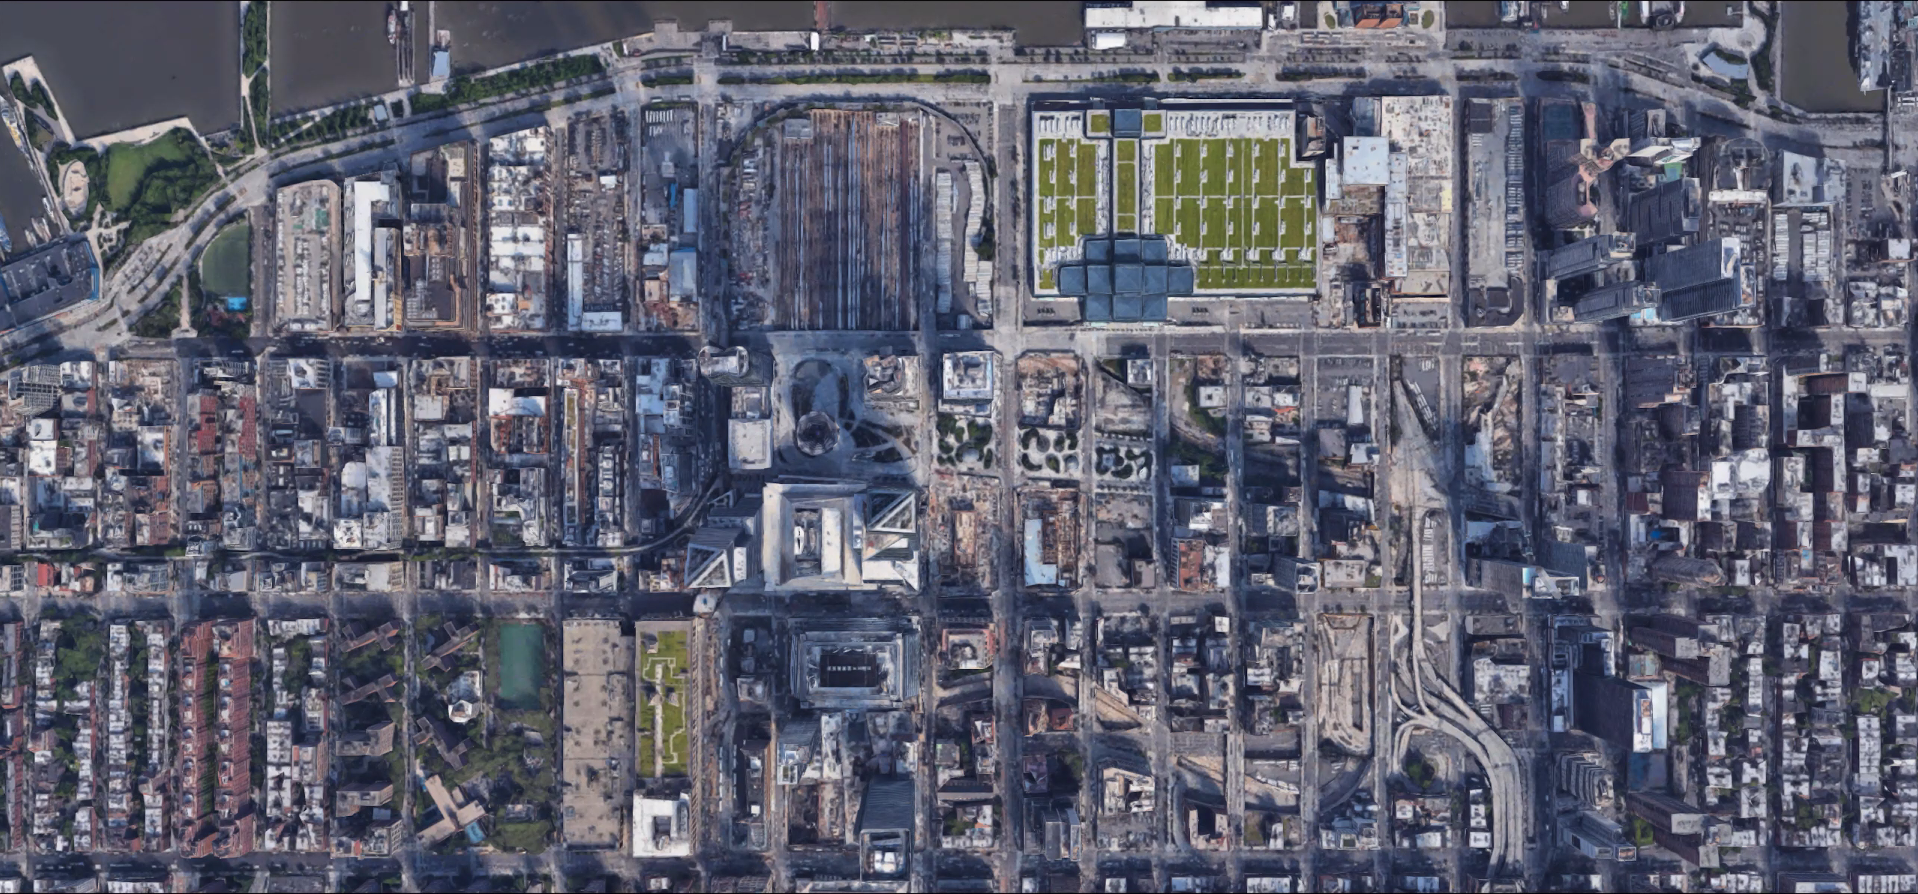
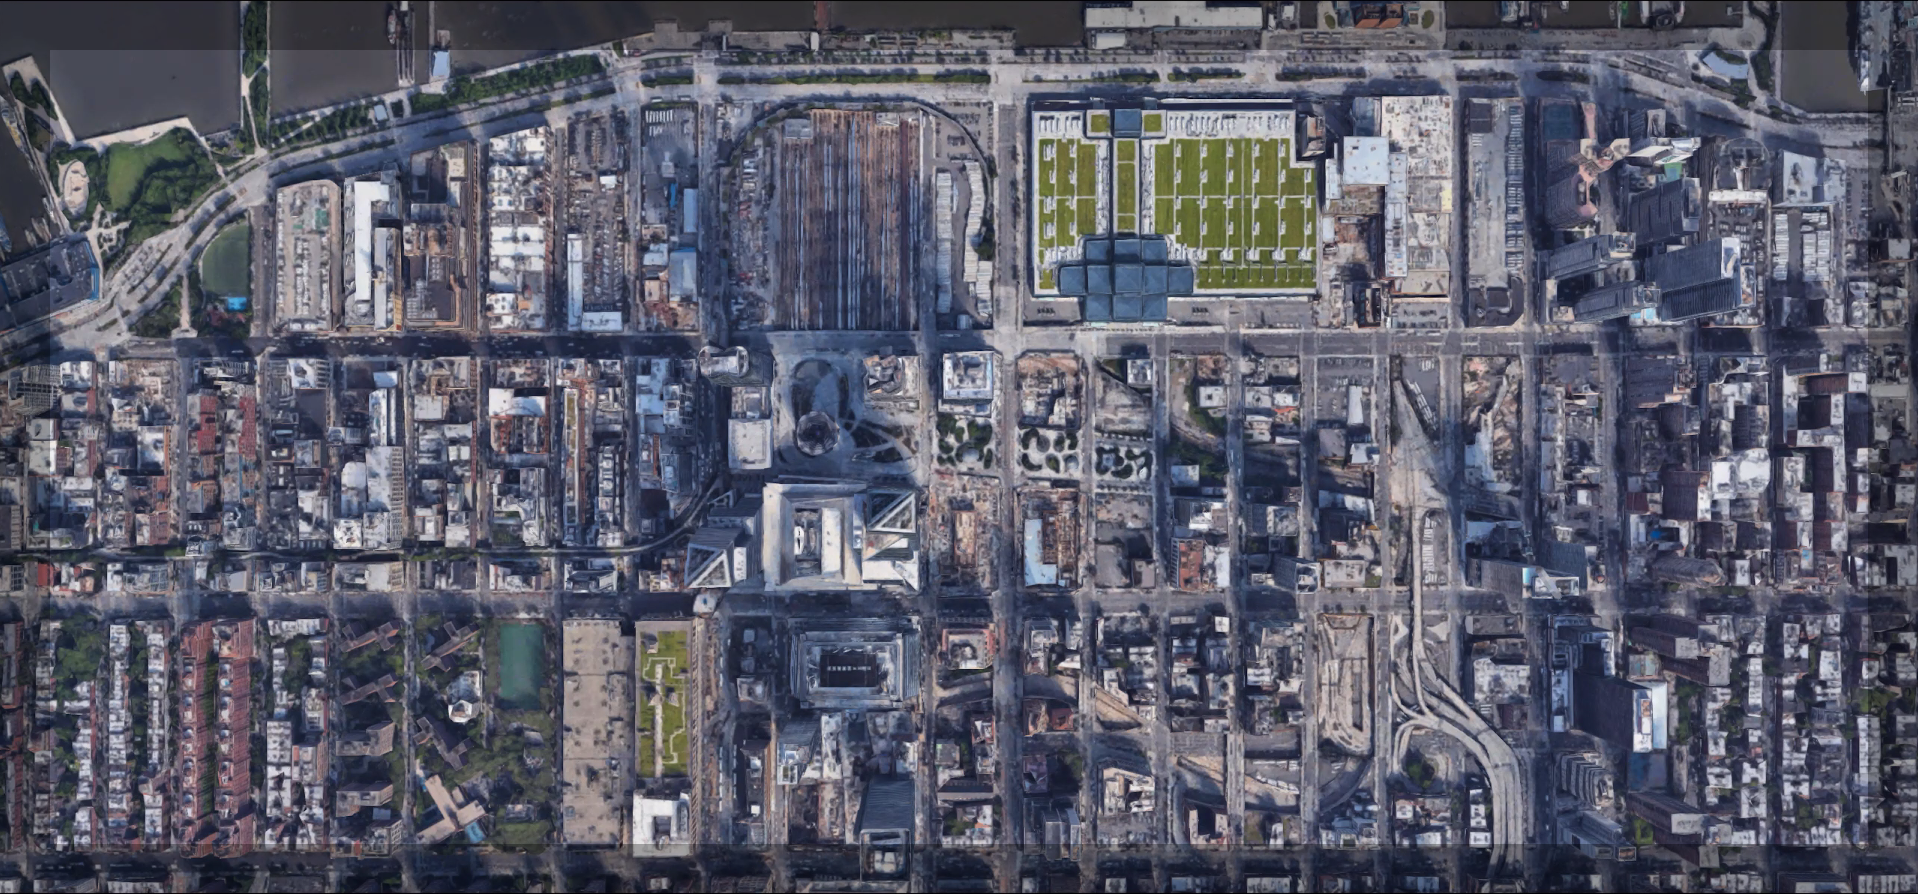
added runing parameters

Changed region(s): [[0.0, 0.0, 1.0, 1.0]]

diff --git a/src/trafficSimulator/window.py b/src/trafficSimulator/window.py
@@ -19,8 +19,8 @@ class Window:
         
     def set_default_config(self):
         """Set default configuration"""
-        self.width = 1167
-        self.height = 540
+        self.width = 1918
+        self.height = 894
         self.bg_color = (250, 250, 250)
 
         self.fps = 60
@@ -44,7 +44,7 @@ class Window:
 
         # To draw text
         pygame.font.init()
-        self.text_font = pygame.font.SysFont('Lucida Console', 16)
+        self.text_font = pygame.font.SysFont('Lucida Console', 18)
 
         # Draw loop
         running = True
@@ -120,7 +120,7 @@ class Window:
     def background(self, r, g, b):
         """Fills screen with one color."""
         #image_file_vscode = "src/trafficSimulator/bg_with_axis.jpeg"
-        image_file_intillij = "/Users/naoryekutiely/Git/trafficSimulator/src/trafficSimulator/bg_new.jpeg"
+        image_file_intillij = "/Users/naoryekutiely/Git/trafficSimulator/src/trafficSimulator/bg_new_york.png"
         self.image = pygame.image.load(image_file_intillij)
         self.rect = self.image.get_rect()
         self.screen.fill([255, 255, 255])
@@ -323,20 +323,18 @@ class Window:
                         color=color)
 
     def draw_status(self):
-        text_fps = self.text_font.render(f't={self.sim.t:.5}', False, (0, 0, 0))
-        text_frc = self.text_font.render(f'n={self.sim.frame_count}', False, (0, 0, 0))
-        vehicle_count = self.text_font.render(f'vehiclecount={self.sim.vehicleCount}', False, (0, 0, 0))
-        road_one_tp = self.text_font.render(f'road_one_tp={self.sim.road_one_tp}', False, (0, 0, 0))
+        text_fps = self.text_font.render(f't={self.sim.t:.5}', False, (255, 255, 255))
+        text_frc = self.text_font.render(f'n={self.sim.frame_count}', False,(255, 255, 255))
+        vehicle_count = self.text_font.render(f'vehiclecount={self.sim.vehicleCount}', False, (255, 255, 255))
+        road_one_tp = self.text_font.render(f'road_one_tp={self.sim.road_one_tp}', False, (255, 255, 255))
 
-        running_time = self.text_font.render(f'running_time={(time.time()-self.running_time):.5}', False, (0, 0, 0))
+        running_time = self.text_font.render(f'running_time={(time.time()-self.running_time):.5}', False, (255, 255, 255))
         
-        self.screen.blit(text_fps, (0, 0))
-        self.screen.blit(text_frc, (100, 0))
-        self.screen.blit(vehicle_count, (200, 0))
-
-        self.screen.blit(road_one_tp, (250, 250))
-
-        self.screen.blit(running_time, (20, 130))
+        #self.screen.blit(text_fps, (0, 0))
+        #self.screen.blit(text_frc, (100, 0))
+        self.screen.blit(vehicle_count, (0, 0))
+        self.screen.blit(road_one_tp, (200, 0))
+        self.screen.blit(running_time, (420, 0))
 
 
     def draw(self):

diff --git a/src/simulation_V1.0.1.py b/src/simulation_V1.0.1.py
@@ -12,62 +12,23 @@ d = 5
 e = 80
 f = 40
 
-SOUTH_RIGHT = (a, b)
-SOUTH_LEFT = (-a, b)
-NORTH_RIGHT = (-a, -b)
-NORTH_LEFT = (a, -b)
-
-SOUTH_RIGHT_START = (a, l+b)
-SOUTH_LEFT_START = (-a, l+b)
-NORTH_RIGHT_START = (-a, -l-b)
-NORTH_LEFT_START = (a, -l-b)
-
-SOUTH_MIDDLE = (0, b-c)
-NORTH_MIDDLE = (0, -b+c)
-
-SOUTH_RIGHT_IN = (d, b-c+d)
-SOUTH_RIGHT_OUT = (-d, b-c-d)
-SOUTH_RIGHT_MIDDLE = (-a, b-2*c)
-NORTH_RIGHT_MIDDLE = (-a, -b+2*c)
-NORTH_RIGHT_OUT = (-d, -b+c+d)
-NORTH_RIGHT_IN = (d, -b+c-d)
-
-SOUTH_LEFT_IN = (-d, b-c+d)
-SOUTH_LEFT_OUT = (d, b-c-d)
-SOUTH_LEFT_MIDDLE = (a, b-2*c)
-NORTH_LEFT_MIDDLE = (a, -b+2*c)
-NORTH_LEFT_OUT = (d, -b+c+d)
-NORTH_LEFT_IN = (-d, -b+c-d)
-
-SOUTH_RIGHT_TURN = (f, b-c-c/2)
-SOUTH_RIGHT_MERGE = (e, 5)
-
-SOUTH_LEFT_TURN = (-f, b-c-c/2)
-SOUTH_LEFT_MERGE = (-e, 5)
-
-NORTH_RIGHT_TURN = (f, -b+c+c/2)
-NORTH_RIGHT_MERGE = (e, -5)
-
-NORTH_LEFT_TURN = (-f, -b+c+c/2)
-NORTH_LEFT_MERGE = (-e, -5)
-
 sim.create_roads([
     ((55, 246),(49,-80)),
     ((49,-80),(45, -246)),
     ((35, -246),(45, 246)),
-    *curve_road((49,-80), (150,-190), (100,-200), resolution=n),
+    #*curve_road((49,-80), (150,-190), (100,-200), resolution=n),
 ])
 
 def road(a): return range(a, a+n)
 
-sim.create_gen({
-    'vehicle_rate': 150,
-    'vehicles': [
-        [50, {'path': [0,1]}],
-        [30, {'path': [0,*road(3)]}],
-        [50, {'path': [2]}],
-    ]
-})
+#sim.create_gen({
+    #'vehicle_rate': 150,
+    #'vehicles': [
+        #[50, {'path': [0,1]}],
+        #[30, {'path': [0,*road(3)]}],
+        #[50, {'path': [2]}],
+    #]
+#})
 # Start simulation
 win = Window(sim)
 win.zoom = 1.5

diff --git a/src/trafficSimulator/vehicle.py b/src/trafficSimulator/vehicle.py
@@ -17,25 +17,25 @@ class Vehicle:
     def set_default_config(self):
         # diff cars --- private car: 90%, trucks: 3%, motor-cycle: 7%
         r = randint(1, 100)
-        r_speed = random.uniform(1,2)
+        r_speed = random.uniform(1,8)
         temp = randint(0,1)
         if(temp): r_speed *= -1
         if(r<=3):
             self.l = 8
             self.s0 = 6 # minimum desired distance between the vehicle i and i-1
-            self.v_max = 5 + r_speed # maximum desired speed of the vehicle i
+            self.v_max = 10 + r_speed # maximum desired speed of the vehicle i
             self.a_max = 1.2 # maximum acceleration for the vehicle i.
             self.b_max = 3.90 # comfortable deceleration for the vehicle i.   
         if(r > 10):
             self.l = 4
             self.s0 = 4 # minimum desired distance between the vehicle i and i-1
-            self.v_max = 6 + r_speed # maximum desired speed of the vehicle i
+            self.v_max = 30 + r_speed # maximum desired speed of the vehicle i
             self.a_max = 1.44 # maximum acceleration for the vehicle i.
             self.b_max = 4.61 # comfortable deceleration for the vehicle i.
         if(r > 3 and r <= 10):
             self.l = 2
             self.s0 = 2 # minimum desired distance between the vehicle i and i-1
-            self.v_max = 7 + r_speed # maximum desired speed of the vehicle i
+            self.v_max = 40 + r_speed # maximum desired speed of the vehicle i
             self.a_max = 5 # maximum acceleration for the vehicle i.
             self.b_max = 4.90 # comfortable deceleration for the vehicle i.
 
